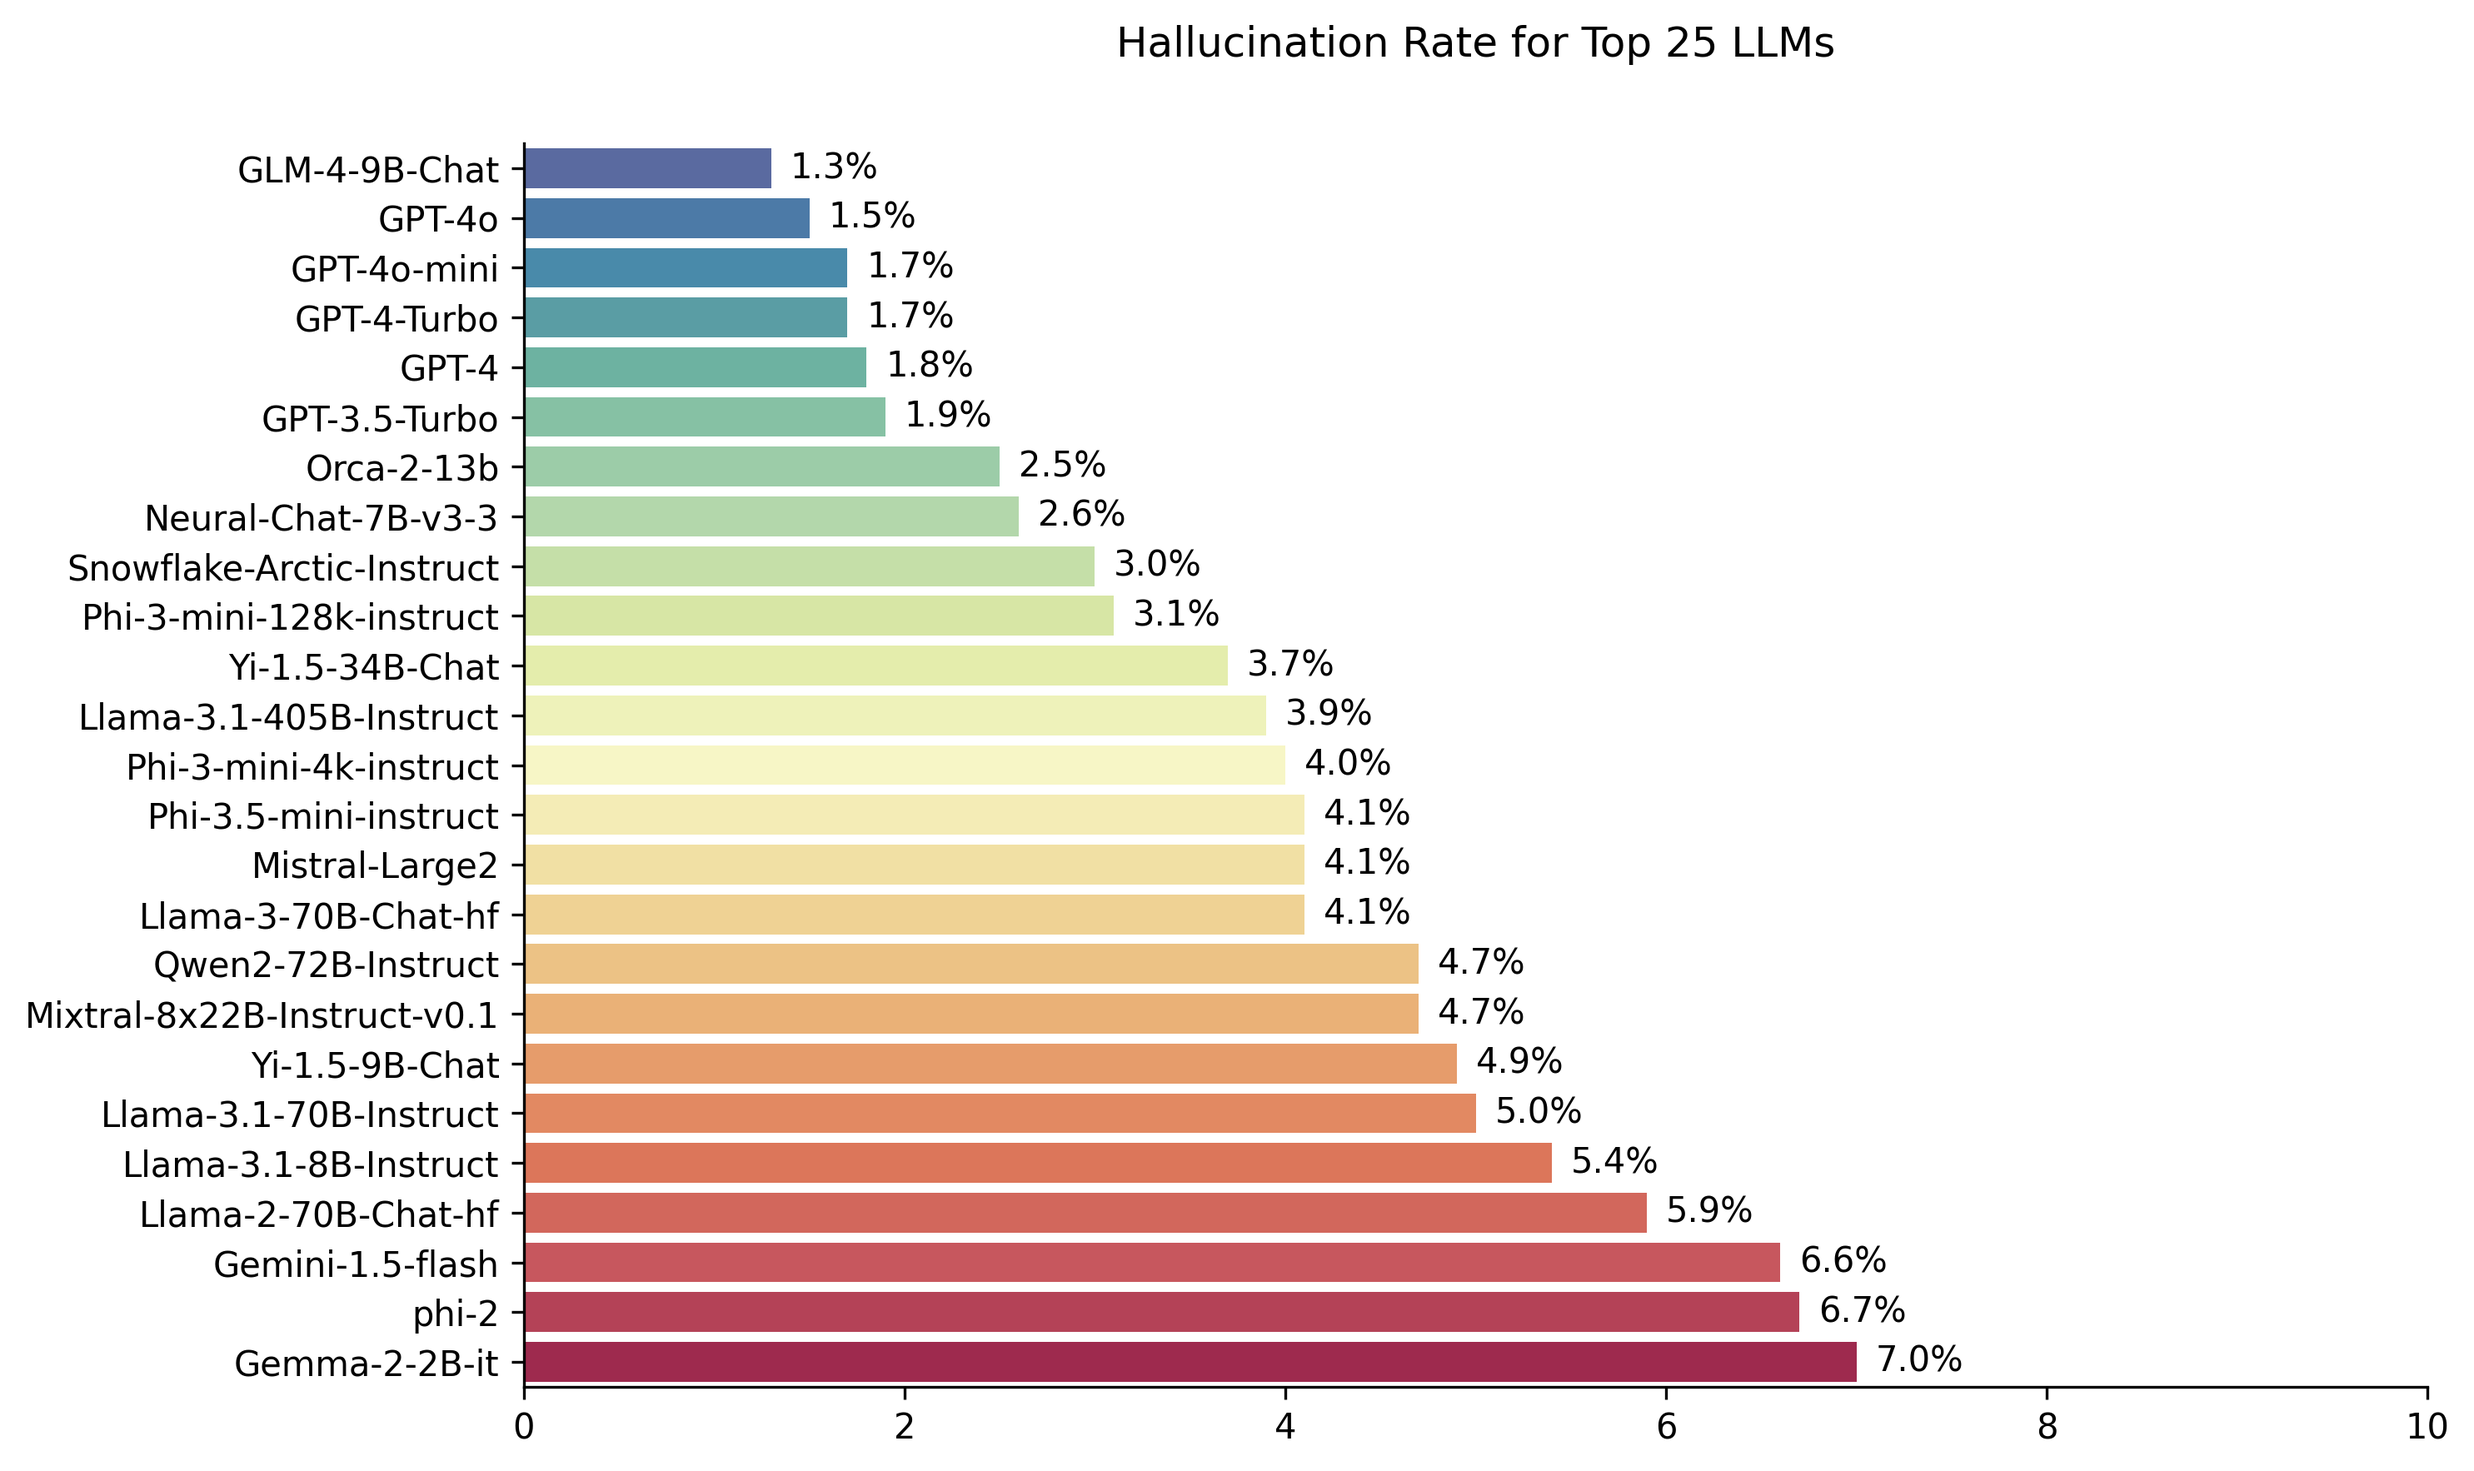
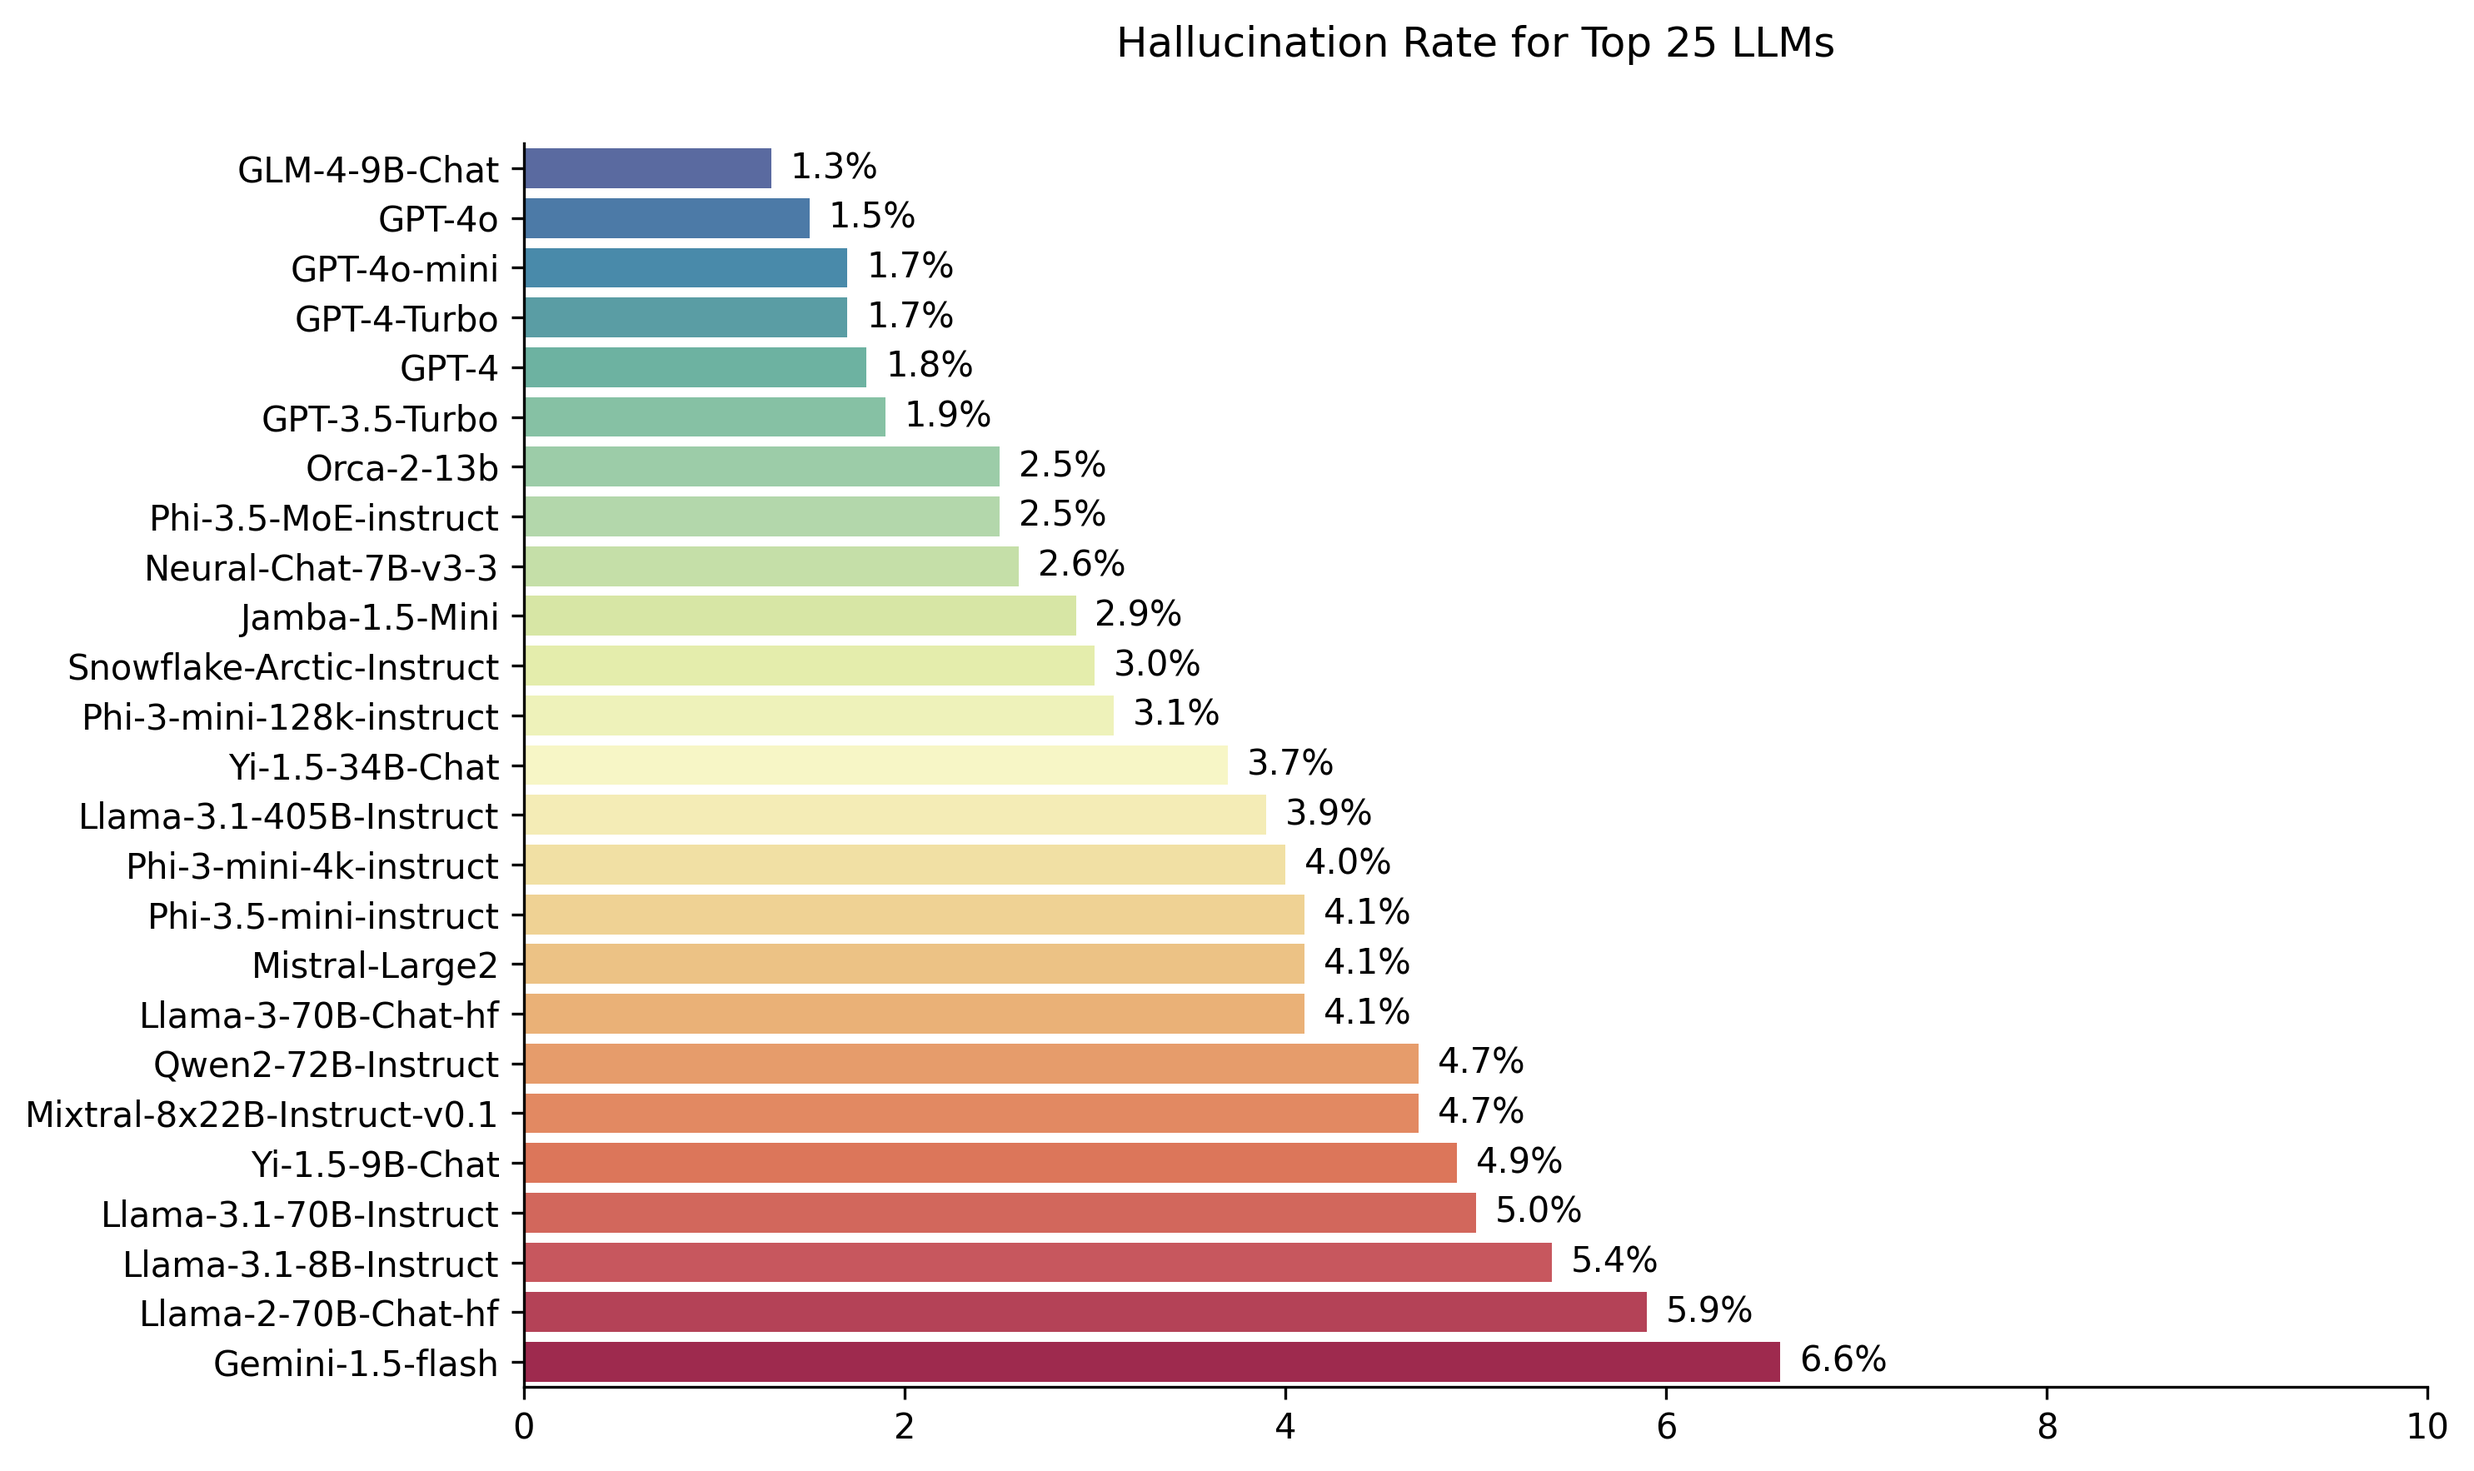
add results for AI21-Jamba-1.5-Mini, Phi-3.5-MoE-instruct, Mistral-Nemo-Instruct-2407

Changed region(s): [[0.0, 0.3426, 0.2168, 0.9343], [0.5266, 0.6229, 0.8054, 0.9655], [0.4027, 0.3426, 0.5576, 0.5917]]

diff --git a/README.md b/README.md
@@ -20,7 +20,7 @@ If you are interested in the previous leaderboard, which was based on HHEM-1.0, 
 </table>
 
 
-Last updated on August 22nd, 2024
+Last updated on August 23rd, 2024
 
 ![Plot: hallucination rates of various LLMs](./img/hallucination_rates_of_various_LLMs.png)
 
@@ -33,7 +33,9 @@ Last updated on August 22nd, 2024
 |GPT-4|1.8 %|98.2 %|100.0 %|81.1|
 |GPT-3.5-Turbo|1.9 %|98.1 %|99.6 %|84.1|
 |Microsoft Orca-2-13b|2.5 %|97.5 %|100.0 %|66.2|
+|Microsoft Phi-3.5-MoE-instruct|2.5 %|97.5 %|96.3 %|69.7|
 |Intel Neural-Chat-7B-v3-3|2.6 %|97.4 %|100.0 %|60.7|
+|AI21 Jamba-1.5-Mini|2.9 %|97.1 %|95.6 %|74.5|
 |Snowflake-Arctic-Instruct|3.0 %|97.0 %|100.0 %|68.7|
 |Microsoft Phi-3-mini-128k-instruct|3.1 %|96.9 %|100.0 %|60.1|
 |01-AI Yi-1.5-34B-Chat|3.7 %|96.3 %|100.0 %|83.7|
@@ -61,6 +63,7 @@ Last updated on August 22nd, 2024
 |Anthropic Claude-3-opus|10.1 %|89.9 %|95.5 %|92.1|
 |Google Gemma-2-9B-it|10.1 %|89.9 %|100.0 %|70.2|
 |Llama-2-13B-Chat-hf|10.5 %|89.5 %|99.8 %|82.1|
+|Mistral-Nemo-Instruct|11.2 %|88.8 %|100.0 %|69.9|
 |Llama-2-7B-Chat-hf|11.3 %|88.7 %|99.6 %|119.9|
 |Microsoft WizardLM-2-8x22B|11.7 %|88.3 %|99.9 %|140.8|
 |Amazon Titan-Express|13.5 %|86.5 %|99.5 %|98.4|
@@ -141,6 +144,7 @@ Details on each model can be found on their [website](https://docs.anthropic.com
 - **Mixtral 8x22B**: Accessed via Together AI's API using the model `mistralai/Mixtral-8x22B-Instruct-v0.1` and the `chat` endpoint.  
 - **Mistral Large2**: Accessed via Mistral AI's API using the model `mistral-large-latest`.
 - **Mistral-7B-Instruct-v0.3**: The [Mistral-7B-Instruct-v0.3](https://huggingface.co/mistralai/Mistral-7B-Instruct-v0.3) model is accessed by being loaded from Hugging Face's checkpoint.
+- **Mistral-Nemo-Instruct** The [Mistral-Nemo-Instruct-2407](https://huggingface.co/mistralai/Mistral-Nemo-Instruct-2407) model is accessed via Hugging Face's checkpoint.
 
 ### Google Palm Models via Vertex AI
 - **Google Palm 2**: Implemented using the `text-bison-001` model, respectively.
@@ -160,6 +164,7 @@ For an in-depth understanding of each model's version and lifecycle, especially 
 - **Microsoft Phi-3-mini-4k**: The [phi-3-mini-4k](https://huggingface.co/microsoft/Phi-3-mini-4k-instruct) model is accessed via Hugging Face's checkpoint.
 - **Microsoft Phi-3-mini-128k**: The [phi-3-mini-128k](https://huggingface.co/microsoft/Phi-3-mini-128k-instruct) model is accessed via Hugging Face's checkpoint.
 - **Microsoft Phi-3.5-mini-instruct**: The [phi-3.5-mini-instruct](https://huggingface.co/microsoft/Phi-3.5-mini-instruct) model is accessed via Hugging Face's checkpoint.
+- **Microsoft Phi-3.5-MoE-instruct**: The [phi-3.5-MoE-instruct](https://huggingface.co/microsoft/Phi-3.5-MoE-instruct) model is accessed via Hugging Face's checkpoint.
 
 ### Google Models on Hugging Face
 - **Google flan-t5-large**: The [flan-t5-large](https://huggingface.co/google/flan-t5-large) model is accessed via Hugging Face's API.
@@ -192,6 +197,9 @@ For an in-depth understanding of each model's version and lifecycle, especially 
 
 ### Qwen Model
 - **Qwen/Qwen2-72B-Instruct**: Acccessed via Together AI `chat` endpoint with model name `Qwen/Qwen2-72B-Instruct`.
+
+### AI21 Model
+- **AI21-Jamba-1.5-Mini**: The [Jamba-1.5-Mini](https://huggingface.co/ai21labs/AI21-Jamba-1.5-Mini) model is accessed via Hugging Face's checkpoint.
 
 ## Frequently Asked Questions
 * **Qu.** Why are you are using a model to evaluate a model?
